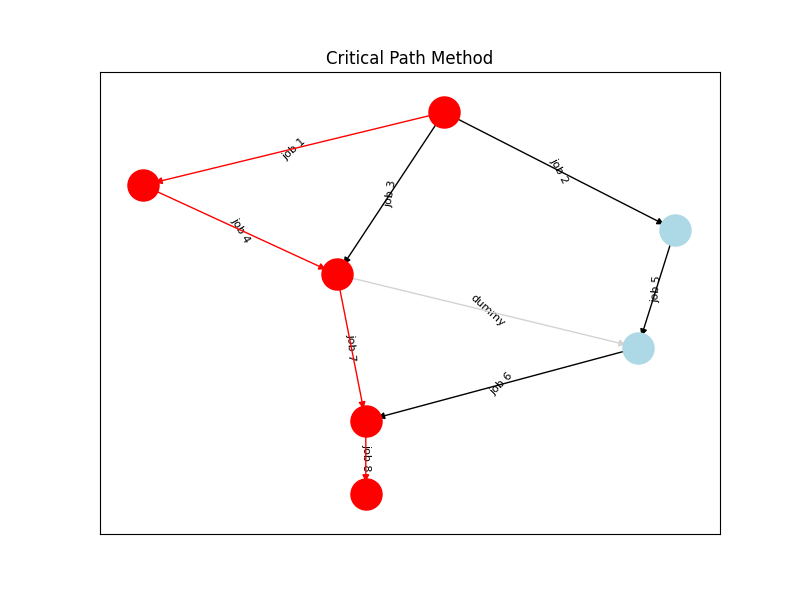
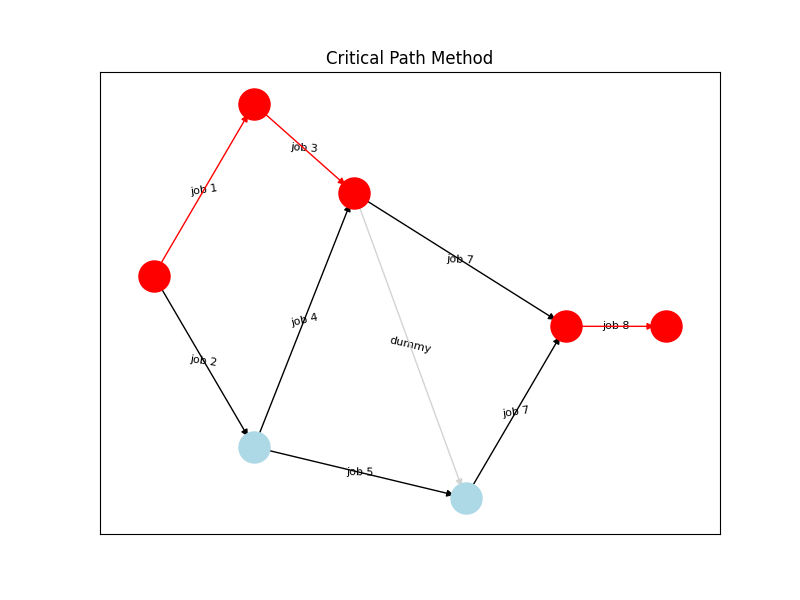
minor issues fixed

diff --git a/CPM/visualize.py b/CPM/visualize.py
@@ -5,6 +5,7 @@ import os
 from networkx.drawing.nx_agraph import graphviz_layout
 from collections import defaultdict
 from CPM import *
+import json, sys
 
 # Define a class State to represent each state with its incoming and outgoing jobs
 class State(object):
@@ -81,7 +82,7 @@ class States(object):
 
 
 DEAFULT_PATH = 'SchedulingTheory/CPM/output'
-def visualize_CPM(jobs, critical_path, outputpath=DEAFULT_PATH) -> None:    
+def visualize_CPM(jobs, critical_path, outputpath=DEAFULT_PATH) -> None:
     network = Network(jobs)
 
     # Create a dictionary to store all states
@@ -108,6 +109,8 @@ def visualize_CPM(jobs, critical_path, outputpath=DEAFULT_PATH) -> None:
     # Create a directed graph
     graph = nx.DiGraph()
 
+    graph.graph['graph'] = {'rankdir': 'LR'}
+
     # Add edges based on the states
     for state in states.values():
         if state.id == '3':
@@ -117,6 +120,7 @@ def visualize_CPM(jobs, critical_path, outputpath=DEAFULT_PATH) -> None:
                 graph.add_edge(state, states[jobs[int(outgoing.id)]], label="job " + str(outgoing), is_critical=(outgoing in critical_path), is_dummy=False)
             else:
                 graph.add_edge(state, states[jobs[int(outgoing.id)]], label='dummy', is_critical=(state.is_critical and states[jobs[int(outgoing.id)]].is_critical), is_dummy=True)
+            edge_labels = nx.get_edge_attributes(graph, 'label')
 
     # Draw the graph
     plt.figure(figsize=(8, 6))
@@ -166,5 +170,37 @@ def find_subsets(superlist):
                 results[A] = B
     return results
 
+def main():
+    if len(sys.argv) > 1:
+        inputpath = sys.argv[1]
+    if len(sys.argv) > 2:
+        outputpath = sys.argv[2]
+    else:
+        inputpath = 'SchedulingTheory/CPM/input/lecture.json'
+        outputpath = DEAFULT_PATH
+
+    with open(inputpath, 'r') as f:
+        jobs_dict = json.load(f)
+
+    # Convert the dictionary back to Job objects
+    jobs = {int(id): Job(**job_data) for id, job_data in jobs_dict.items()}
+
+    # Create the network and add jobs and dependencies
+    network = Network(jobs)
+
+    # Run the CPM algorithm
+    earliest_start_time, earliest_finish_time, latest_start_time, latest_finish_time, slacks, critical_path = cpm_algorithm(network)
+
+    # Print the results
+    print("Earliest Start Time:", earliest_start_time)
+    print("Earliest Finish Time:", earliest_finish_time)
+    print("Latest Start Time:", latest_start_time)
+    print("Latest Finish Time:", latest_finish_time)
+    print("Slacks:", slacks)
+    print("Critical Path:", critical_path)
+    print("Makespan: ", max(earliest_finish_time.values()))
+
+    visualize_CPM(jobs, critical_path, outputpath)
+
 if __name__ == '__main__':
-    visualize_CPM()
+    main()

diff --git a/CPM/main.py b/CPM/main.py
@@ -3,8 +3,7 @@ import json
 from CPM import *
 from visualize import visualize_CPM, DEAFULT_PATH
 
-if __name__ == '__main__':
-
+def main():
     if len(sys.argv) > 1:
         inputpath = sys.argv[1]
     if len(sys.argv) > 2:
@@ -35,3 +34,6 @@ if __name__ == '__main__':
     print("Makespan: ", max(earliest_finish_time.values()))
 
     visualize_CPM(jobs, critical_path, outputpath)
+
+if __name__ == '__main__':
+    main()
